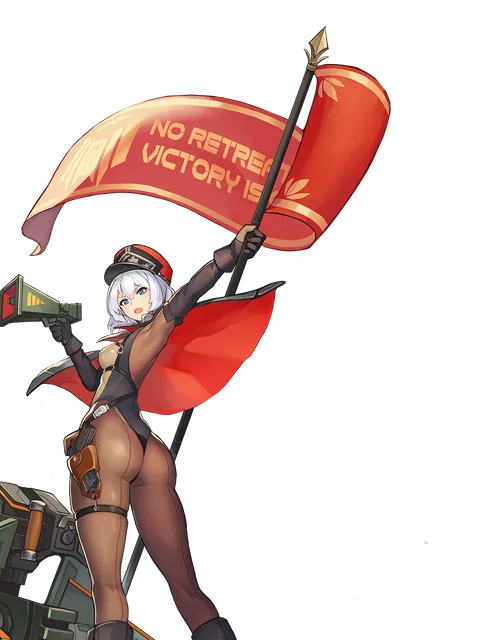
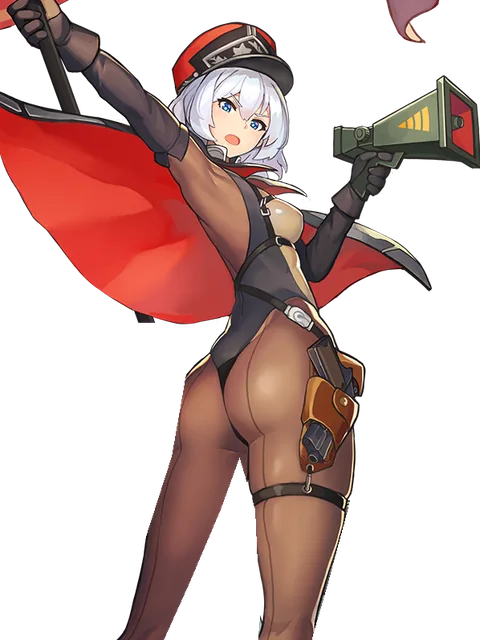
레드후드 그림: 포대 지우기, 좌우 반전, 카드 안 크기를 다른 캐릭터와 맞춤

diff --git a/index.html b/index.html
@@ -15,8 +15,8 @@
 <link rel="icon" href="favicon.ico">
 <link rel="apple-touch-icon" href="assets/ui/icon-192.png">
 <link rel="manifest" href="manifest.webmanifest">
-<link rel="stylesheet" href="css/style.css?v=93">
-<link rel="stylesheet" href="css/lo_skin.css?v=93">
+<link rel="stylesheet" href="css/style.css?v=94">
+<link rel="stylesheet" href="css/lo_skin.css?v=94">
 </head>
 <body>
 <div id="viewport">
@@ -41,21 +41,21 @@
   <div id="rotate-hint"><div class="rh-icon">⟳</div><div>가로 화면으로 돌려 주세요</div><small>이 게임은 가로 화면에 맞춰져 있습니다</small></div>
 </div>
 
-<script src="js/data.js?v=93"></script>
-<script src="js/engine.js?v=93"></script>
-<script src="js/ai.js?v=93"></script>
-<script src="js/campaign.js?v=93"></script>
-<script src="js/draft.js?v=93"></script>
-<script src="js/store.js?v=93"></script>
-<script src="js/voice_list.js?v=93"></script>
-<script src="js/audio.js?v=93"></script>
-<script src="js/ui_common.js?v=93"></script>
-<script src="js/ui_lobby.js?v=93"></script>
-<script src="js/ui_deck.js?v=93"></script>
-<script src="js/ui_campaign.js?v=93"></script>
-<script src="js/ui_battle.js?v=93"></script>
-<script src="js/ui_challenge.js?v=93"></script>
-<script src="js/tutorial.js?v=93"></script>
-<script src="js/main.js?v=93"></script>
+<script src="js/data.js?v=94"></script>
+<script src="js/engine.js?v=94"></script>
+<script src="js/ai.js?v=94"></script>
+<script src="js/campaign.js?v=94"></script>
+<script src="js/draft.js?v=94"></script>
+<script src="js/store.js?v=94"></script>
+<script src="js/voice_list.js?v=94"></script>
+<script src="js/audio.js?v=94"></script>
+<script src="js/ui_common.js?v=94"></script>
+<script src="js/ui_lobby.js?v=94"></script>
+<script src="js/ui_deck.js?v=94"></script>
+<script src="js/ui_campaign.js?v=94"></script>
+<script src="js/ui_battle.js?v=94"></script>
+<script src="js/ui_challenge.js?v=94"></script>
+<script src="js/tutorial.js?v=94"></script>
+<script src="js/main.js?v=94"></script>
 </body>
 </html>

diff --git a/js/data.js b/js/data.js
@@ -243,7 +243,7 @@ TOKENS.forEach(u => { u.kind = 'unit'; CARDS[u.id] = u; });
 SKILLS.forEach(s => { s.kind = 'skill'; CARDS[s.id] = s; });
 // 덱 편성에 쓸 수 있는 카드 (적 전용·토큰 제외)
 const POOL = Object.values(CARDS).filter(c => !c.enemy && !c.token);
-const ART_VER = 6; // 아트를 다시 빌드하면 올려서 브라우저 캐시를 갱신한다
+const ART_VER = 7; // 아트를 다시 빌드하면 올려서 브라우저 캐시를 갱신한다
 function artOf(card) { return `assets/art/${card.art || card.id}.webp?v=${ART_VER}`; }
 function iconOf(card) { return card.icon ? `assets/skill/${card.icon}.png` : null; }
 function fullOf(card) { return `assets/full/${card.art || card.id}.webp?v=${ART_VER}`; }

diff --git a/tools/build_art.py b/tools/build_art.py
@@ -40,7 +40,7 @@ OVERRIDE = {
 }
 
 # 초상 크롭 수동 보정: (cx 비율, top 비율, 폭 비율) — bbox 기준
-CROP_FIX = {'PECS_BlindPrincess': (0.62, 0.1, 0.5), 'AGS_Arachne': (0.56, 0.0, 0.62)}
+CROP_FIX = {'PECS_BlindPrincess': (0.62, 0.1, 0.5), 'BR_RedHood': (0.655, 0.28, 0.37), 'AGS_Arachne': (0.56, 0.0, 0.62)}
 # 머리 기준 크롭 대신 전신을 3:4 캔버스에 맞춰 넣을 카드 (로봇·와이드 구도)
 FIT = {'AGS_Aeda', 'DS_KunoichiShiden', 'DS_Ramiel', 'PECS_Lumberjane', 'IW_NightChick', 'IW_Speaker', 'IW_RocC', 'IW_Parasite', 'IW_Kidnapper', 'IW_Robert', 'IW_Stalker'}
 
@@ -138,6 +138,30 @@ def portrait(im, cid):
 MAIN_ONLY = {'PECS_Orangeade', 'PECS_BlindPrincess', 'PECS_LemonadeBeta'}
 
 
+# 원본에서 캐릭터 뒤 소품(포대 등)을 지울 카드: 남길 영역 다각형(원본 좌표)과 남길 사각형들
+# 레드후드: 올라탄 포대·탄약 상자를 지우고 사람과 깃발만 남긴다 (다리 사이로 보이는 포대도 다각형으로 뺀다)
+def _rh(pts): return [(400 + x / 0.75, 700 + y / 0.75) for x, y in pts]  # 0.75배 미리보기 좌표로 땄다
+CUT = {
+    'BR_RedHood': {
+        'keep_rects': [(600, 0, 2048, 946), (0, 0, 600, 880)],
+        'drop_rects': [(400 + 575 / 0.75, 700 + 176 / 0.75, 400 + 620 / 0.75, 700 + 205 / 0.75)],  # 망토 아래로 삐져나온 깃대
+        'poly': _rh([(380, 185), (610, 185), (560, 215), (575, 300), (600, 380), (640, 460), (668, 512), (688, 525), (692, 600), (700, 700), (700, 728), (669, 728), (668, 700), (660, 650), (650, 600), (630, 560), (610, 522), (598, 505), (560, 420), (530, 350), (512, 300), (497, 350), (492, 450), (498, 519), (490, 578), (476, 610), (463, 645), (453, 690), (449, 725), (452, 748), (374, 748), (376, 738), (400, 728), (428, 712), (437, 675), (442, 600), (444, 525), (444, 470), (430, 420), (410, 345), (400, 300), (392, 220)]),
+    },
+}
+# 좌우를 뒤집어 쓸 카드 (다른 카드와 같은 방향을 보게)
+FLIP = {'BR_RedHood'}
+
+
+def cut(im, spec):
+    from PIL import ImageDraw, ImageChops
+    m = Image.new('L', im.size, 0); d = ImageDraw.Draw(m)
+    for r in spec.get('keep_rects', []): d.rectangle(r, fill=255)
+    d.polygon(spec['poly'], fill=255)
+    for r in spec.get('drop_rects', []): d.rectangle(r, fill=0)
+    im.putalpha(ImageChops.multiply(im.getchannel('A'), m))
+    return keep_main(im)  # 잘리고 남은 부스러기 제거
+
+
 def keep_main(im):
     from scipy import ndimage
     a = np.array(im)
@@ -164,6 +188,8 @@ def build(cid):
         return False
     im = Image.open(src).convert('RGBA')
     if cid in MAIN_ONLY: im = keep_main(im)
+    if cid in CUT: im = cut(im, CUT[cid])
+    if cid in FLIP: im = im.transpose(Image.FLIP_LEFT_RIGHT)
     portrait(im, cid).save(OUT_ART / f'{cid}.webp', quality=82, method=6)
     full(im).save(OUT_FULL / f'{cid}.webp', quality=80, method=6)
     return True
